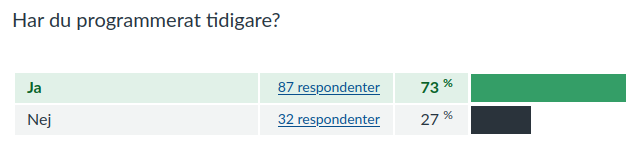
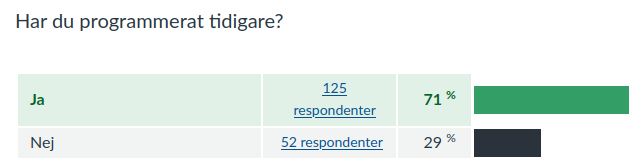
update survey

Changed region(s): [[0.0, 0.4416, 1.0, 0.987], [0.0, 0.0779, 0.4531, 0.2078], [0.0302, 0.7273, 0.0906, 0.9351]]

diff --git a/slides/body/lect-w01-about.tex b/slides/body/lect-w01-about.tex
@@ -271,8 +271,8 @@ Dessa läroböcker följer inte direkt kursens upplägg vad gäller omfång och 
 \ifkompendium\else
 \begin{SlideExtra}{Personal \CurrentYear}\SlideFontSmall
 \begin{description}
-\item [\bfseries Kursansvarig:] Professor Björn Regnell, bjorn.regnell@cs.lth.se, rum E:2413
-\item [\bfseries Bitr. kursansvarig:] Adjunkt Mattias Nordahl, mattias.nordal@cs.lth.se, rum E:21??
+\item [\bfseries Kursansvarig:] Professor Björn Regnell, bjorn.regnell@cs.lth.se, E:2413
+\item [\bfseries Bitr. kursansv.:] Adjunkt Mattias Nordahl, mattias.nordal@cs.lth.se, E:21??
 \item [\bfseries Handledare:] \Emph{teknologer} anställda som s.k. \Alert{amanuenser}, %
 % I kaptenalloc sbt console: 
 %scala> Tutor.personGrid.mapRows(rm => rm("förnamn") + " " + rm("efternamn")).size
@@ -542,7 +542,7 @@ Exempel på efterföljande kurser som bygger vidare på denna:
 \end{SlideExtra}
 
 
-\SlideImg{Stor spridning i förkunskaper}{../img/survey-2024.png}
+\SlideImg{Stor spridning i förkunskaper}{../img/survey-2025.png}
 
 %%% AAAARGH -- version clash ? or something causing thins in Ubuntu 20.04 
 %%%   but not in ubuntu 18.04:
